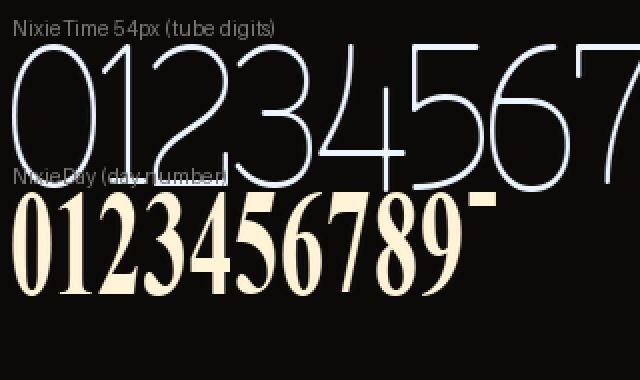
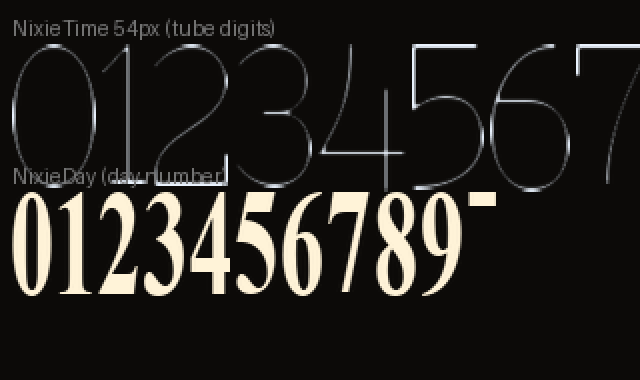
feat(ciq): hot orange wire digits, honeycomb anode grid and an HH:MM colon
The tubes were blue; the user's reference photographs are orange, so the ink,
the glass and the weight of the digits all moved. Every value was measured off
the reference rather than guessed:

* tube_colour.py (new) writes the generated source/TubeInk.mc: the shipping ink
  is device_colour.correct() of the target measured colour, so live-drawn digits
  are pre-corrected exactly like the baked artwork (while the ink was blue the
  correction never applied, so the mismatch did not show).
* The digits are a thin wire, not a heavy stem: make_fonts.py gains a `thin`
  argument (erode 1 px per side + 0.5 px blur). One halo ring, not two -
  GLOW_RAD2 == GLOW_RAD1 skips the outer pass, saving 8 glyph blits per digit
  per frame.
* prepare_artwork.py re-lights the glass warm and adds the honeycomb anode grid
  (_hex_mesh, supersampled) as an OCCLUDER: drawn additively it cost digit
  contrast (2.8 -> 2.0), drawn as a multiply it gave it back.
* The hours/minutes colon is drawn (SteampunkNixieView.drawSeparator/litDot) in
  the digits' own ink with no glow ring; its geometry is generated into Layout.mc
  and mirrored by preview.py.
* preview.py: also fixes the summary printing consts["STEP_Y"][0] - STEP_Y is a
  scalar in Layout.mc, so every preview run exited non-zero after writing.

diff --git a/ciq/prepare_artwork.py b/ciq/prepare_artwork.py
@@ -93,6 +93,31 @@ def load_clean_source():
 # rectangles on the 1024 grid (walls measured on tube 2: +-64.5 src), down to just above the
 # brass collars, so the collars, manifold and dials are untouched.
 TUBE_X_SRC = [282.3, 439.8, 579.5, 745.9]
+# The haze the digit throws into the glass, and the specular streak. Both follow the discharge's
+# colour: the tubes lit BLUE while the digits were blue (the tube_colour target set), so these
+# move together with ciq/source/TubeInk.mc - a warm digit inside cool glass clashes visibly.
+GLASS_HAZE_RGB = (0.62, 0.26, 0.06)
+GLASS_SPEC_RGB = (1.0, 0.94, 0.86)
+# The anode grid: real nixie tubes show a hexagonal metal mesh in front of the cathode, and the
+# user's reference photo reads as much by its honeycomb as by its colour. 0 = off. Visibility
+# follows the digit's own haze (MESH_GAIN), so the mesh lights up with the glow instead of being a
+# uniform printed texture.
+MESH_ALPHA = 0.55
+MESH_RGB = (1.0, 0.72, 0.42)
+MESH_R_SRC = 5.35                # hexagon circumradius on the 1024 grid (~14 cells across a tube)
+MESH_W_SRC = 0.6                 # wire width, source px (drawn supersampled, see _hex_mesh)
+MESH_SS = 6                      # supersampling factor for the mesh mask
+MESH_GAIN = 1.6                  # how strongly the local haze brightens the mesh
+MESH_BASE = 0.10                 # how visible the mesh is away from the glow
+# The wires can be drawn either as light added to the glass (glow, the reference's own look on its
+# bright glass) or as an OCCLUDER that darkens the glass behind them. Darkening is what buys digit
+# contrast on our near-black glass, so it is the default; MESH_RGB is unused in that mode.
+MESH_DARKEN = 1.0
+# How much the tube's interior glass is LIT (0 = the current near-black glass). The reference
+# photo's tubes are bright amber, interior luminance ~0.33 against a 0.89 digit - which is what
+# actually makes that picture read as it does, far more than the mesh.
+TUBE_LIFT = 0.0
+TUBE_LIFT_RGB = (1.0, 0.62, 0.30)
 TUBE_HALF_W_SRC = 72            # +-64.5 walls + edge anti-aliasing
 TUBE_WALL_SRC = 64.5
 TUBE_Y0_SRC, TUBE_Y1_SRC = 55, 335    # nipple tip .. just above the collar
@@ -109,6 +134,40 @@ def _tube_mask(w, h):
     for cx in TUBE_X_SRC:
         m = np.maximum(m, np.clip((TUBE_HALF_W_SRC - np.abs(xx - cx)) / 4, 0, 1) * vy)
     return m
+
+
+def _hex_mesh(w, h):
+    """An alpha mask of a flat-top honeycomb (the nixie anode grid), or None when MESH_ALPHA is 0.
+
+    Drawn supersampled (MESH_SS) and downsampled, because a mesh fine enough to read as the
+    reference photograph's texture is 1-2 source px per wire - drawn at 1:1 it either vanishes or
+    turns into stair-steps. Only the columns that can land inside a tube are visited.
+    """
+    if MESH_ALPHA <= 0:
+        return None
+    import math
+
+    from PIL import ImageDraw
+    ss = MESH_SS
+    W, H = w * ss, h * ss
+    mask = Image.new("L", (W, H), 0)
+    d = ImageDraw.Draw(mask)
+    r = MESH_R_SRC * ss
+    dy = math.sqrt(3.0) * r
+    wdt = max(1, round(MESH_W_SRC * ss))
+    for col in range(-2, int(W / (1.5 * r)) + 2):
+        cx = 1.5 * r * col
+        # skip columns that cannot reach any tube (the mask is only used inside the tubes)
+        if not any(abs(cx / ss - t) < TUBE_HALF_W_SRC + 2 * MESH_R_SRC for t in TUBE_X_SRC):
+            continue
+        for row in range(-2, int(H / dy) + 2):
+            cy = dy * (row + 0.5 * (col % 2))
+            pts = [(cx + r * math.cos(math.radians(60 * k)),
+                    cy + r * math.sin(math.radians(60 * k))) for k in range(6)]
+            for k in range(6):
+                d.line([pts[k], pts[(k + 1) % 6]], fill=255, width=wdt)
+    mask = mask.resize((w, h), Image.LANCZOS)
+    return np.asarray(mask, np.float32) / 255.0
 
 
 def glass_tubes(src):
@@ -134,8 +193,19 @@ def glass_tubes(src):
                                 + ((yy - (TUBE_DOME_Y_SRC + 8)) / 7) ** 2))      # dome hotspot
         haze += 0.30 * np.exp(-(((xx - cx) / 48) ** 2 + ((yy - 255) / 85) ** 2))
     m = _tube_mask(w, h)
-    out = base + (haze * m)[..., None] * np.array([0.10, 0.32, 0.62], np.float32)
-    light = (np.clip(spec, 0, 1) * m)[..., None] * np.array([0.82, 0.92, 1.0], np.float32)
+    out = base + (haze * m)[..., None] * np.array(GLASS_HAZE_RGB, np.float32)
+    if TUBE_LIFT > 0:
+        out = np.clip(out + (body * m * TUBE_LIFT)[..., None] * np.array(TUBE_LIFT_RGB, np.float32),
+                      0, 1)
+    mesh = _hex_mesh(w, h)
+    if mesh is not None:
+        gain = MESH_BASE + MESH_GAIN * np.clip(haze * 2.4, 0, 1)
+        wires = mesh * m * gain * MESH_ALPHA           # never shadow `a` (the source image)
+        if MESH_DARKEN > 0:
+            out = out * (1.0 - np.clip(wires * MESH_DARKEN, 0, 1))[..., None]   # wires occlude
+        else:
+            out = np.clip(out + wires[..., None] * np.array(MESH_RGB, np.float32), 0, 1)
+    light = (np.clip(spec, 0, 1) * m)[..., None] * np.array(GLASS_SPEC_RGB, np.float32)
     out = 1 - (1 - np.clip(out, 0, 1)) * (1 - light)                             # screen blend
     res = a * (1 - m[..., None]) + out * m[..., None]
     return Image.fromarray((np.clip(res, 0, 1) * 255).round().astype(np.uint8), "RGB")
@@ -242,6 +312,12 @@ def geometry(lay=SHIP):
     g["RING_CAP"] = RING_CAP_SRC * lay.sb
     g["TOP_K"] = lay.st / 0.49          # font scale vs the layout the font sizes were tuned on
     g["BOT_K"] = lay.sb / 0.43
+    # Hours/minutes separator: the colon sits in the tube 2 / tube 3 gap (the hour|minute
+    # boundary), exactly midway between their digit centres, at digit height.
+    g["SEP_X"] = (g["TIME_X"][1] + g["TIME_X"][2]) / 2.0
+    g["SEP_Y"] = g["TIME_Y"]
+    g["SEP_DY"] = 7
+    g["SEP_R"] = 2
     return g
 
 
@@ -274,6 +350,12 @@ const BELT_PITCH = {g["BELT_PITCH"]};
 const HR_Y = {round(hy + 0.5)};
 const DAY_X = {round(dx)};
 const DAY_Y = {round(dy + 0.5)};
+
+// The hours/minutes separator (two lit dots in the tube 2 / tube 3 gap).
+const SEP_X = {round(g["SEP_X"])};
+const SEP_Y = {g["SEP_Y"]};
+const SEP_DY = {g["SEP_DY"]};
+const SEP_R = {g["SEP_R"]};
 
 // Arc channels (Discharge.mc): tube-tip knobs, and the dark band the bolts must stay inside.
 const ARC_AX = {lst(g["ARC_AX"])};

diff --git a/ciq/tube_colour.py b/ciq/tube_colour.py
@@ -1,0 +1,63 @@
+"""Generate source/TubeInk.mc: the tube digits' and separator's ink colours.
+
+WHY a generated file: the digits are drawn LIVE by the view (drawText with a halo ring), unlike the
+background artwork, which is baked and then pre-corrected once by device_colour.correct(). A colour
+drawn live has to go through the SAME correction or the digits disagree with the glass they sit in
+on the AMOLED panel - and warm colours are exactly where the panel shifts (device_colour.py). Writing
+the corrected values into a generated .mc both enforces that and keeps one source of truth.
+
+The three colours build one digit, painted back to front:
+    INK_GLOW2  outer halo ring (radius 3)
+    INK_GLOW1  inner halo ring (radius 1)
+    INK_TIME   the glyph core, which carries the contrast and never pulses
+The TARGET values below are what the face should look like ON THE WATCH (measured off the user's
+reference photograph: a warm white-peach core inside an orange discharge, with the two rings
+swapped relative to the earlier build so a dark channel separates the wire from its bloom).
+run `python make.py assets` after editing.
+"""
+import os
+
+from PIL import Image
+
+import device_colour
+
+HERE = os.path.dirname(os.path.abspath(__file__))
+GEN_MC = os.path.join(HERE, "source", "TubeInk.mc")
+
+# Target colours AS SEEN ON THE WATCH (sRGB, before the AMOLED pre-correction).
+INK_TARGET = {
+    # The wire is a single hot cathode: a hot yellow-white core inside ONE bright orange ring.
+    # Measured off the user's reference photograph (core (236,225,139) at luminance 0.87, one soft
+    # orange discharge around it) - NOT the pale peach or the two-ring construction of the earlier
+    # builds, which the user rejected as "too pale" and "too much complex shading".
+    "INK_TIME": (252, 226, 150),    # core: hot yellow-white
+    "INK_GLOW1": (255, 118, 38),    # the single halo ring, bright orange
+    "INK_GLOW2": (255, 118, 38),    # unused while GLOW_RAD1 == GLOW_RAD2 (the view skips the outer ring)
+}
+
+
+def corrected(colour):
+    row = Image.new("RGB", (1, 1), tuple(colour))
+    return device_colour.correct(row).getpixel((0, 0))
+
+
+def main():
+    out = {}
+    for k, v in INK_TARGET.items():
+        out[k] = corrected(v)
+    with open(GEN_MC, "w", newline="\n") as f:
+        f.write(f"""// GENERATED by ciq/tube_colour.py - do not edit; re-run `python make.py assets`.
+// The tube digits' ink, already run through the AMOLED pre-correction (device_colour.py), so what
+// the panel shows is the target colour in tube_colour.py. Painted outer ring -> inner ring -> core.
+import Toybox.Lang;
+
+const INK_TIME = 0x{out['INK_TIME'][0]:02X}{out['INK_TIME'][1]:02X}{out['INK_TIME'][2]:02X};
+const INK_GLOW1 = 0x{out['INK_GLOW1'][0]:02X}{out['INK_GLOW1'][1]:02X}{out['INK_GLOW1'][2]:02X};
+const INK_GLOW2 = 0x{out['INK_GLOW2'][0]:02X}{out['INK_GLOW2'][1]:02X}{out['INK_GLOW2'][2]:02X};
+""")
+    print(f"wrote {os.path.relpath(GEN_MC, HERE)}  " + " ".join(
+        f"{k}={v}" for k, v in out.items()))
+
+
+if __name__ == "__main__":
+    main()

diff --git a/ciq/make_fonts.py b/ciq/make_fonts.py
@@ -19,7 +19,7 @@ import prepare_artwork
 _G = prepare_artwork.geometry()
 TOP_K, BOT_K = _G["TOP_K"], _G["BOT_K"]
 
-from PIL import Image, ImageDraw, ImageFont
+from PIL import Image, ImageDraw, ImageFilter, ImageFont
 
 HERE = os.path.dirname(os.path.abspath(__file__))
 OUT = os.path.join(HERE, "resources", "fonts")
@@ -29,8 +29,13 @@ SERIF_BD = r"C:\Windows\Fonts\timesbd.ttf"
 SERIF = r"C:\Windows\Fonts\georgia.ttf"
 
 
-def render_glyph(ch, px, condense, source=SERIF_BD):
-    """Render one glyph to a tight grayscale mask, condensed horizontally."""
+def render_glyph(ch, px, condense, source=SERIF_BD, thin=0):
+    """Render one glyph to a tight grayscale mask, condensed horizontally.
+
+    `thin` erodes the stroke by that many px on each side (MinFilter + a small blur to put the
+    anti-aliasing back): the tube digits are a single wire cathode, and Nixie One's strokes are
+    ~2x heavier than the wire in the user's reference photograph.
+    """
     f = ImageFont.truetype(source, px)
     pad = 6
     canvas = Image.new("L", (px * 3, px * 3), 0)
@@ -42,15 +47,17 @@ def render_glyph(ch, px, condense, source=SERIF_BD):
     if bbox is None:
         return None
     g = canvas.crop(bbox)
+    if thin > 0:
+        g = g.filter(ImageFilter.MinFilter(2 * thin + 1)).filter(ImageFilter.GaussianBlur(0.5))
     w = max(1, int(round(g.width * condense)))
     return g.resize((w, g.height), Image.LANCZOS)
 
 
-def build(name, specs, px, condense, source=SERIF_BD, tracking=1):
+def build(name, specs, px, condense, source=SERIF_BD, tracking=1, thin=0):
     """specs: list of (char, codepoint). Packs glyphs left-to-right, wrapping at 512 px."""
     glyphs = []
     for ch, cp in specs:
-        g = render_glyph(ch, px, condense, source)
+        g = render_glyph(ch, px, condense, source, thin)
         if g is not None:
             glyphs.append((ch, cp, g))
     if not glyphs:
@@ -116,8 +123,10 @@ def px_for_ink(source, ink):
     return round(200 * ink / (bb[3] - bb[1]))
 
 
+# NixieTime is THINNED to a wire: `thin=1` takes 1 px off each side of the stroke, which turns
+# Nixie One's ~5-6 px stems into the ~3 px single-wire cathode of the reference photograph.
 t_atlas, t_glyphs = build("NixieTime", DIGITS, px=px_for_ink(NIXIE_ONE, 75 * TOP_K),
-                          condense=0.80, source=NIXIE_ONE)    # ~75 px digits, tubes
+                          condense=0.80, source=NIXIE_ONE, thin=1)   # ~75 px digits, tubes
 # NixieDay: the date dial's day number. The weekday and month moved out to the dial's ring
 # (make_date_ring.py), which freed the inner disc for a bigger number: 54 px ink (user-approved,
 # artwork/date_ring/_compare.png). Was NixieSmall at px 61 / 42 px ink.

diff --git a/ciq/preview.py b/ciq/preview.py
@@ -38,7 +38,8 @@ W, H = 320, 360
 
 
 # ---------------------------------------------------------------- the view's own constants
-def parse_constants(paths=(SOURCE, os.path.join(HERE, "source", "Discharge.mc"),
+def parse_constants(paths=(SOURCE, os.path.join(HERE, "source", "TubeInk.mc"),
+                           os.path.join(HERE, "source", "Discharge.mc"),
                            os.path.join(HERE, "source", "DateRing.mc"),
                            os.path.join(HERE, "source", "HrGauge.mc"),
                            os.path.join(HERE, "source", "Layout.mc"))):
@@ -255,6 +256,18 @@ def belt_digits(face, consts, font, frm, to, phase):
         del win
 
 
+def separator(canvas, consts, discharge=None):
+    """Mirror of SteampunkNixieView.drawSeparator/litDot: two solid dots in the digits' own ink, no
+    glow ring (the separator is a lamp in the gap, not a glyph, so it takes no part in the pulse)."""
+    from PIL import ImageDraw
+    d = ImageDraw.Draw(canvas)
+    r = consts["SEP_R"]
+    for dy in (-consts["SEP_DY"], consts["SEP_DY"]):
+        y = consts["SEP_Y"] + dy
+        d.ellipse([consts["SEP_X"] - r, y - r, consts["SEP_X"] + r, y + r],
+                  fill=rgb(consts["INK_TIME"]))
+
+
 def render(mock=True, sleep=False, consts=None, discharge=None, hr=None, background=None,
            belt=None):
     consts = consts or parse_constants()
@@ -285,6 +298,7 @@ def render(mock=True, sleep=False, consts=None, discharge=None, hr=None, backgro
     for i, d in enumerate("%02d%02d" % (hh, mm)):
         # The glow is painted back-to-front: far ring, near ring, then the core glyph on top.
         glowing(face, consts, f_time, d, consts["TIME_X"][i], consts["TIME_Y"], i, discharge)
+    separator(face, consts, discharge)          # the hours/minutes colon, as the view draws it
 
     frm, to, phase = belt if belt else (belt_text(steps), belt_text(steps), 0)
     belt_digits(face, consts, f_step, frm, to, phase)
@@ -365,7 +379,7 @@ if __name__ == "__main__":
     print(f"{args.out}  {face.size[0]}x{face.size[1]}")
     for name, font, y, cols in (("time", "NixieTime", consts["TIME_Y"], 4),
                                 ("heart rate", "NixieMid", consts["HR_Y"], 2),
-                                ("steps", "NixieStep", consts["STEP_Y"][0], 4),
+                                ("steps", "NixieStep", consts["STEP_Y"], 4),
                                 ("day number", "NixieDay", consts["DAY_Y"], 2),
 ):
         f = Font(font)

diff --git a/ciq/make.py b/ciq/make.py
@@ -37,8 +37,8 @@ import sys
 HERE = os.path.dirname(os.path.abspath(__file__))
 PRODUCTS = ["venusq2m", "venusq2"]      # venusq2m = the user's watch (006-B4116-00)
 WATCH = "venusq2m"
-ASSETS = ["prepare_artwork.py", "prepare_resources.py", "hr_gauge.py", "make_date_ring.py",
-          "make_fonts.py"]
+ASSETS = ["prepare_artwork.py", "tube_colour.py", "prepare_resources.py", "hr_gauge.py",
+          "make_date_ring.py", "make_fonts.py"]
 
 
 def sdk_bin():
